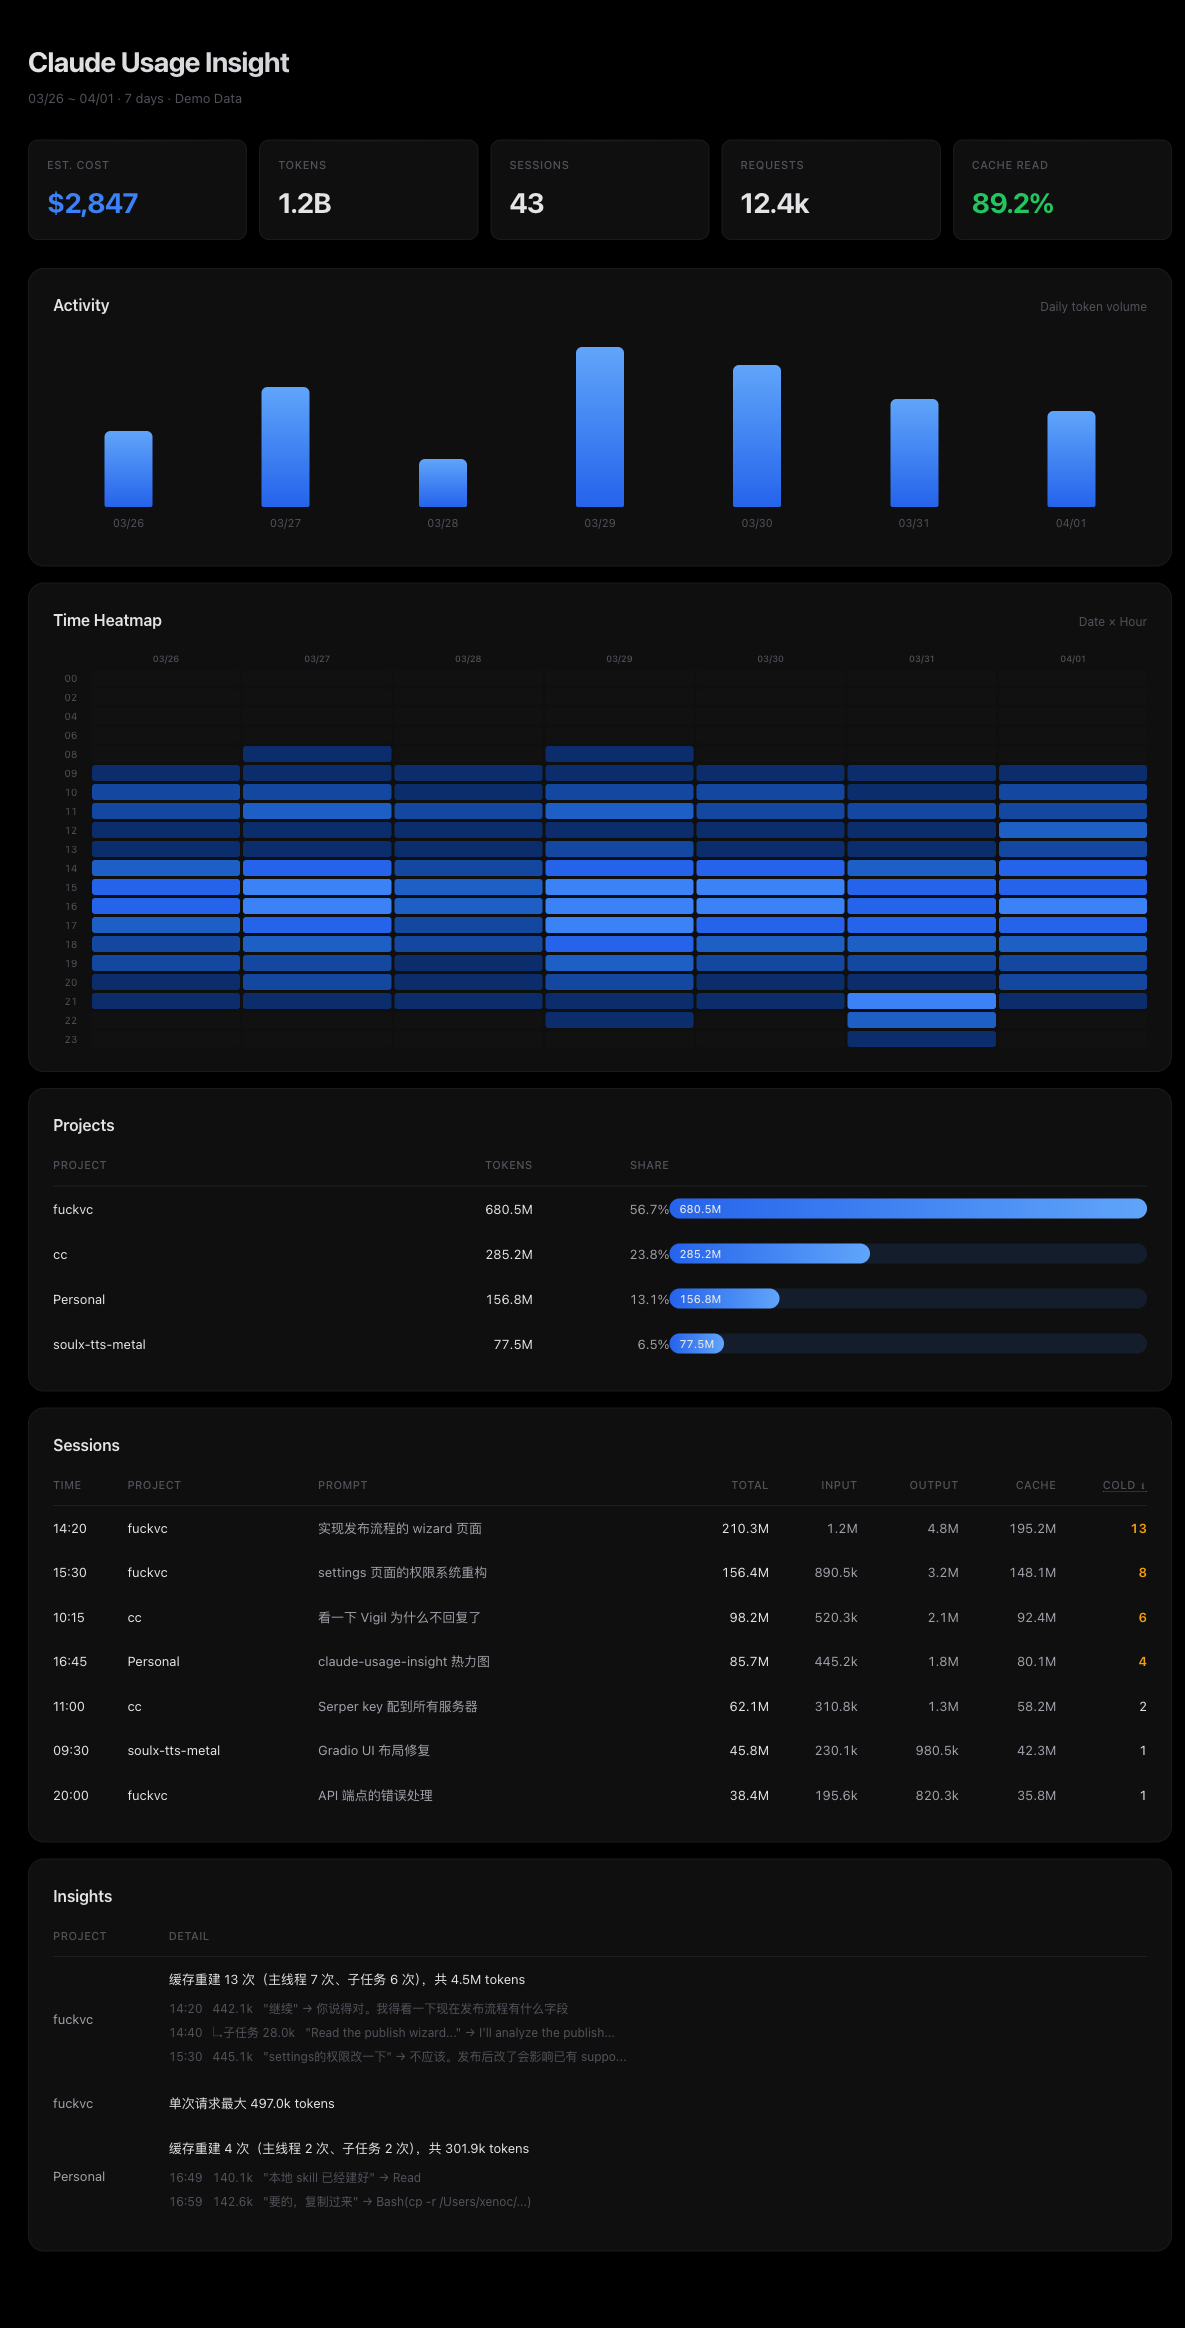
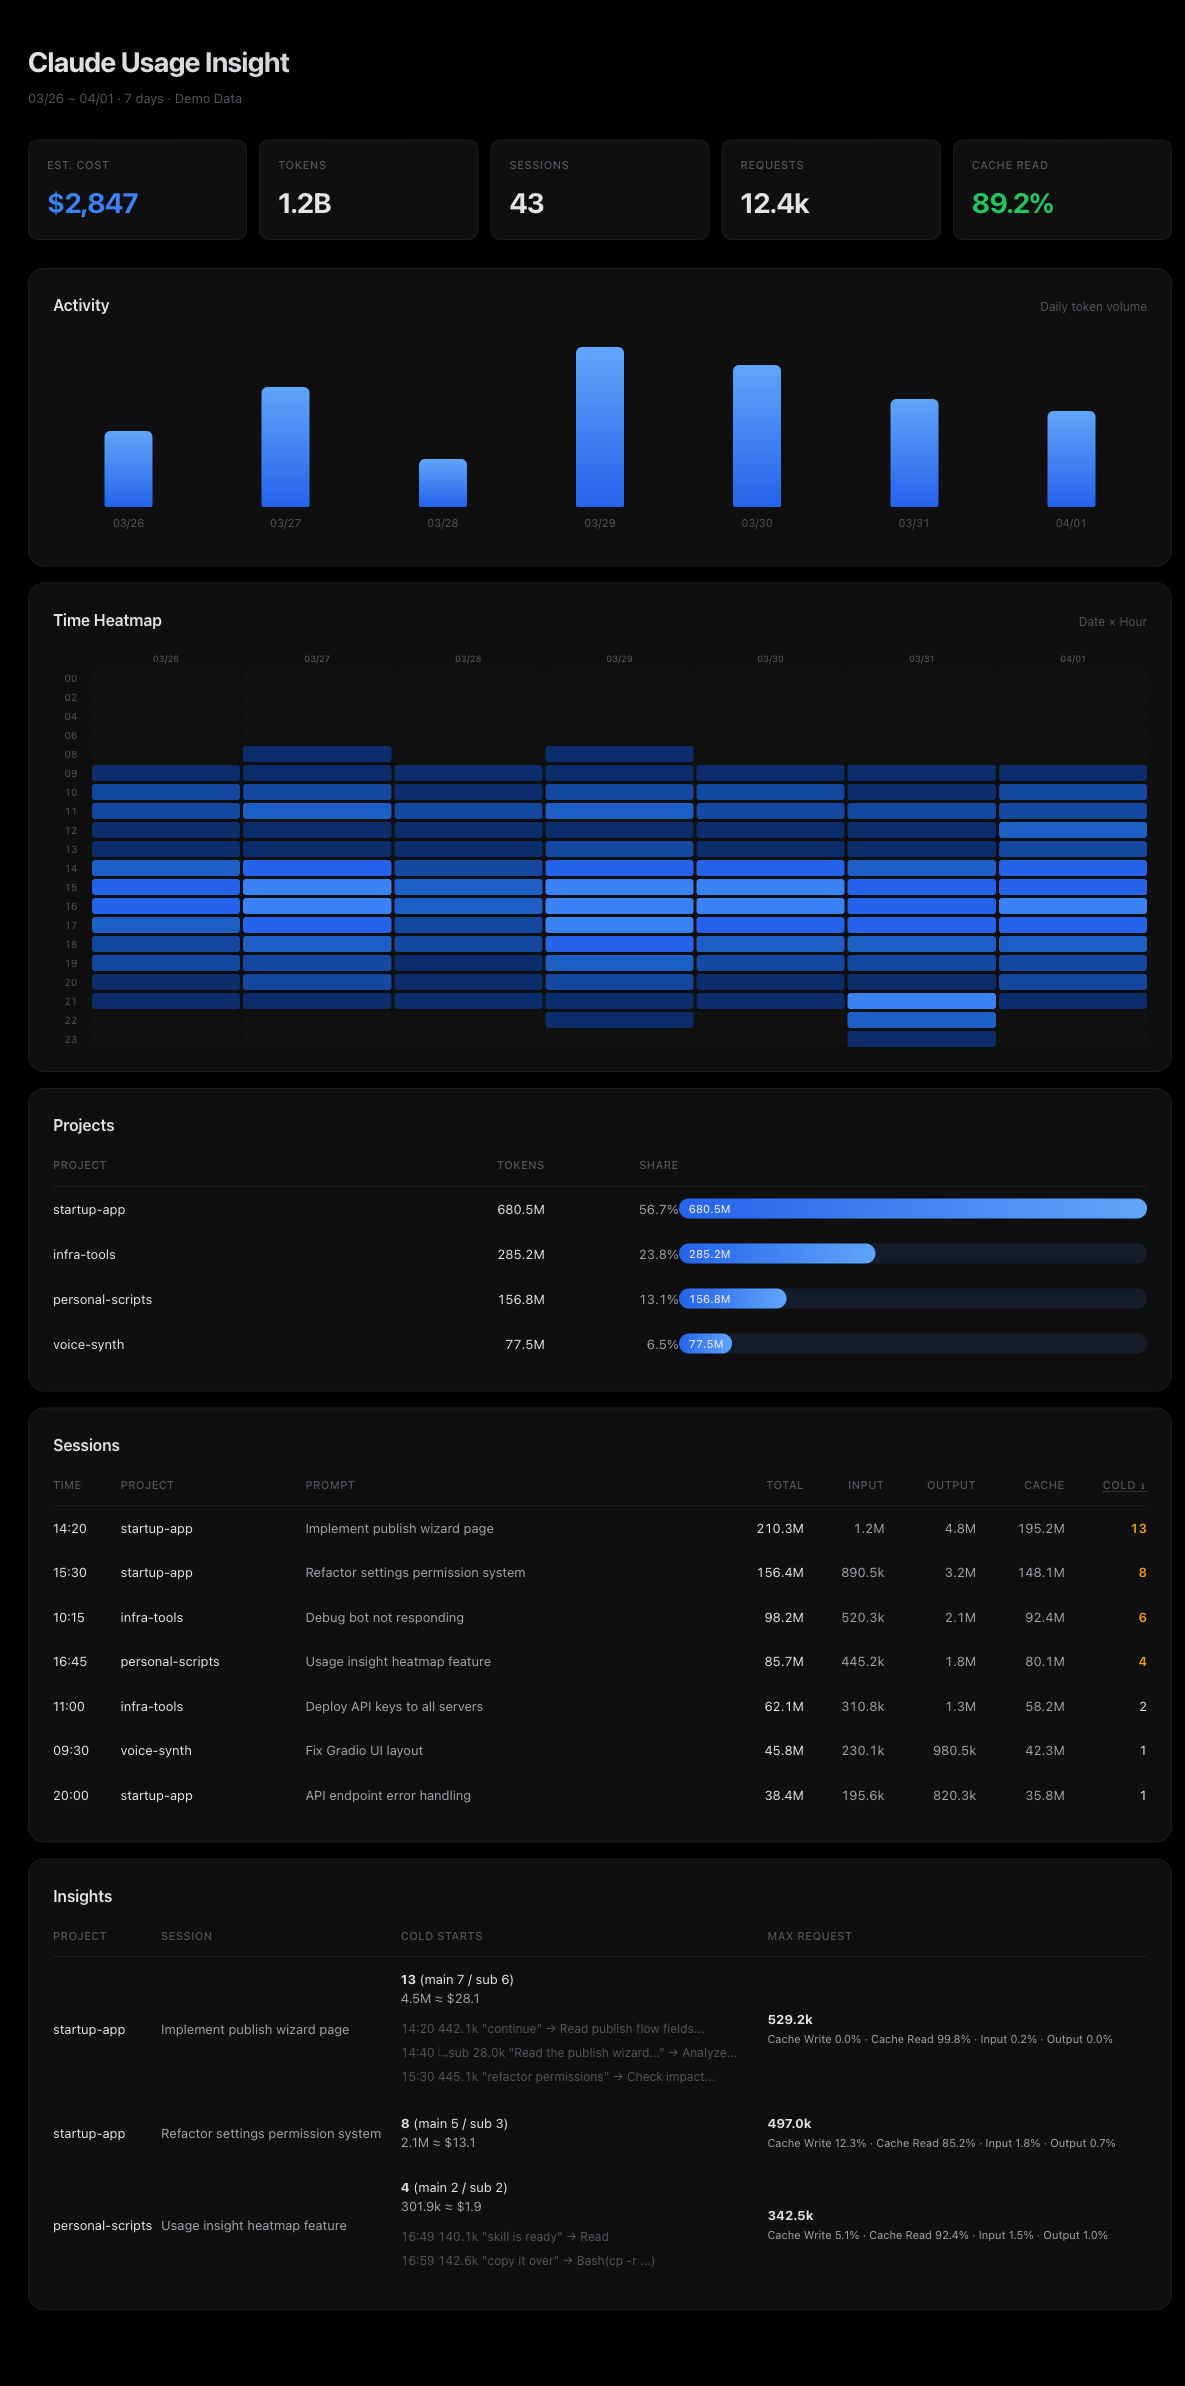
Sanitize demo data, update Insights to structured table, clarify time ranges, add ccusage credits
- Replace real project names with generic ones in demo screenshot
- Insights section now shows Project / Session / Cold Starts / Max Request columns
- Clarify last-7d/last-30d includes today in both READMEs
- Add ccusage and LiteLLM credits for pricing reference

diff --git a/README.md b/README.md
@@ -66,8 +66,8 @@ python3 scripts/claude_usage_insight.py top --by project --last 7d
 |--------|-------------|
 | `today` | Current day (default) |
 | `yesterday` | Previous day |
-| `last-7d` | Last 7 days |
-| `last-30d` | Last 30 days |
+| `last-7d` | Last 7 days (including today) |
+| `last-30d` | Last 30 days (including today) |
 | `this-month` | Current month |
 | `last-month` | Previous month |
 
@@ -126,6 +126,10 @@ Re-running the same range overwrites the file. No timestamp suffix, no pileup.
 - Python 3.9+
 - No external dependencies (stdlib only)
 - macOS: auto-opens HTML report in browser
+
+## Credits
+
+Pricing model referenced from [ccusage](https://github.com/ryoppippi/ccusage), which uses [LiteLLM](https://github.com/BerriAI/litellm) pricing data.
 
 ## License
 

diff --git a/README_CN.md b/README_CN.md
@@ -64,8 +64,8 @@ python3 scripts/claude_usage_insight.py top --by project --last 7d
 |------|------|
 | `today` | 今天（默认） |
 | `yesterday` | 昨天 |
-| `last-7d` | 最近 7 天 |
-| `last-30d` | 最近 30 天 |
+| `last-7d` | 最近 7 天（含今天） |
+| `last-30d` | 最近 30 天（含今天） |
 | `this-month` | 本月 |
 | `last-month` | 上月 |
 
@@ -122,6 +122,10 @@ python3 scripts/claude_usage_insight.py top --by project --last 7d
 - Python 3.9+
 - 无外部依赖（纯标准库）
 - macOS 自动打开 HTML 报告
+
+## 致谢
+
+定价模型参考了 [ccusage](https://github.com/ryoppippi/ccusage)，其使用 [LiteLLM](https://github.com/BerriAI/litellm) 的定价数据。
 
 ## License
 